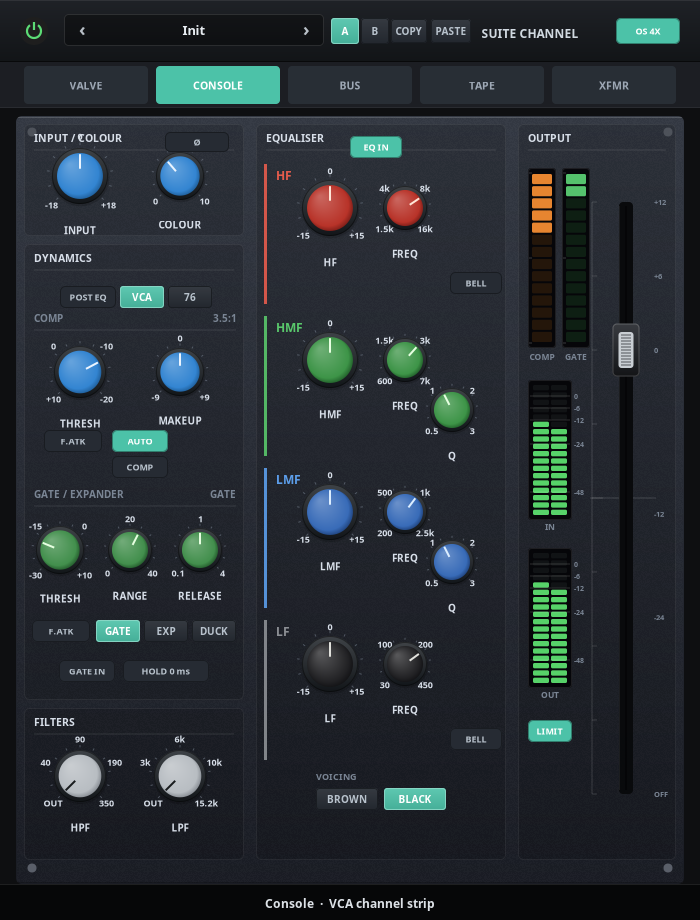
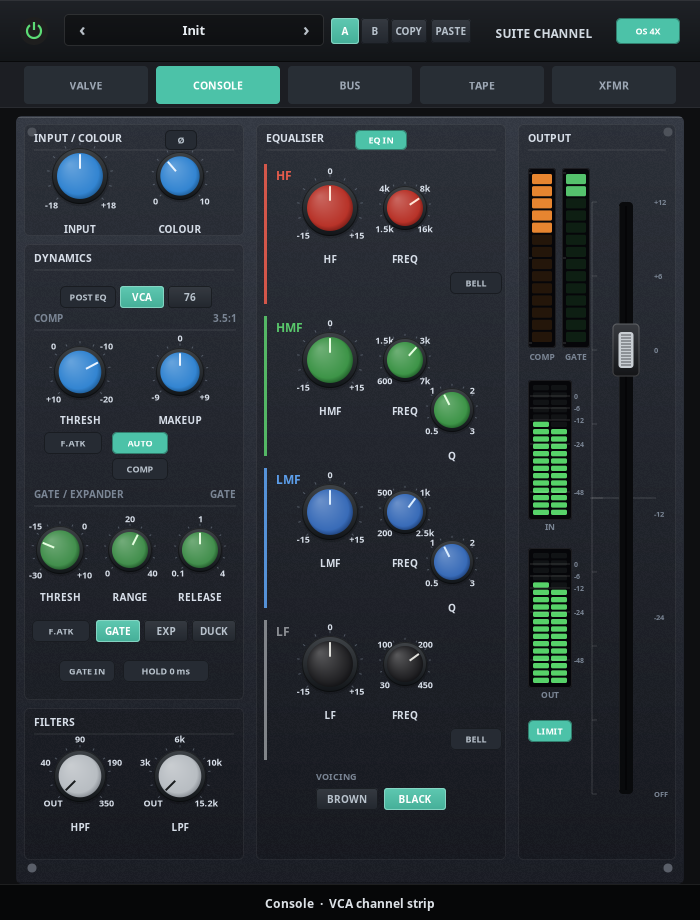
0.2.3: live gate GR meter, header and label alignment

diff --git a/src/ui/panel.cpp b/src/ui/panel.cpp
@@ -111,7 +111,7 @@ KnobPalette paletteFor(uint32_t param, bool blackEq) {
   }
 }
 
-const char* const kScaleInput[] = {"-18", "0", "+18"};
+const char* const kScaleInput[] = {"-18", "", "+18"};
 const char* const kScaleAmount[] = {"0", "", "10"};
 const char* const kScaleHPF[] = {"OUT", "40", "90", "190", "350"};
 const char* const kScaleLPF[] = {"OUT", "3k", "6k", "10k", "15.2k"};
@@ -314,6 +314,12 @@ void Panel::layout(const Shared& shared, const PanelState& state) {
     widgets_.push_back(b);
   };
 
+  auto alignLabels = [&](size_t first, double y) {
+    for (size_t i = first; i < widgets_.size(); ++i) {
+      widgets_[i].labelY = y;
+    }
+  };
+
   auto button = [&](uint32_t param, double x, double y, double w, double h,
                     double value, const char* label) {
     Widget b;
@@ -408,9 +414,11 @@ void Panel::layout(const Shared& shared, const PanelState& state) {
   }
 
   // Input / colour.
+  const size_t inputRow = widgets_.size();
   knob(P_INPUT, 80, 176, 28, "INPUT", sc(kScaleInput), true);
   knob(P_COLOR_AMOUNT, 180, 176, 24, "COLOUR", sc(kScaleAmount), true);
-  pill(P_POLARITY, 165, 132, 64, 20, "\u00d8");
+  alignLabels(inputRow, 233.0);
+  pill(P_POLARITY, 165, 130, 32, 20, "\u00d8");
 
   // Dynamics.
   pill(P_DYN_POST, 60, 286, 56, 22, "POST EQ");
@@ -420,23 +428,27 @@ void Panel::layout(const Shared& shared, const PanelState& state) {
   button(P_COMP_TYPE, 168, 286, 44, 22, 1.0, "76");
   widgets_.back().onSilver = silverComp;
 
+  const size_t compKnobRow = widgets_.size();
   knob(P_COMP_THRESHOLD, 80, 372, 26, "THRESH",
        sc(kScaleCompThresh), true);
   widgets_.back().onSilver = silverComp;
   knob(P_COMP_MAKEUP, 180, 372, 24, "MAKEUP", sc(kScaleMakeup), true);
   widgets_.back().onSilver = silverComp;
-  pill(P_COMP_FAST, 44, 430, 58, 22, "F.ATK");
+  alignLabels(compKnobRow, 424.0);
+  pill(P_COMP_FAST, 44, 432, 58, 22, "F.ATK");
   widgets_.back().onSilver = silverComp;
-  pill(P_COMP_AUTO, 112, 430, 56, 22, "AUTO");
+  pill(P_COMP_AUTO, 112, 432, 56, 22, "AUTO");
   widgets_.back().onSilver = silverComp;
-  pill(P_COMP_IN, 112, 456, 56, 22, "COMP");
+  pill(P_COMP_IN, 112, 458, 56, 22, "COMP");
   widgets_.back().onSilver = silverComp;
 
   // Gate.
+  const size_t gateKnobRow = widgets_.size();
   knob(P_GATE_THRESHOLD, 60, 550, 24, "THRESH",
        sc(kScaleGateThresh), true);
   knob(P_GATE_RANGE, 130, 550, 22, "RANGE", sc(kScaleRange), true);
   knob(P_GATE_RELEASE, 200, 550, 22, "RELEASE", sc(kScaleRelease), true);
+  alignLabels(gateKnobRow, 601.0);
   pill(P_GATE_FAST, 32, 620, 58, 22, "F.ATK");
   button(P_GATE_MODE, 96, 620, 44, 22, 1.0, "GATE");
   button(P_GATE_MODE, 144, 620, 44, 22, 0.0, "EXP");
@@ -455,34 +467,44 @@ void Panel::layout(const Shared& shared, const PanelState& state) {
   }
 
   // Filters.
+  const size_t filterRow = widgets_.size();
   knob(P_HPF, 80, 776, 26, "HPF", sc(kScaleHPF), true);
   knob(P_LPF, 180, 776, 26, "LPF", sc(kScaleLPF), true);
+  alignLabels(filterRow, 831.0);
 
   // EQ.
-  pill(P_EQ_IN, 350, 136, 52, 22, "EQ IN");
+  pill(P_EQ_IN, 355, 130, 52, 20, "EQ IN");
   button(P_EQ_TYPE, 316, 788, 62, 22, 0.0, "BROWN");
   button(P_EQ_TYPE, 384, 788, 62, 22, 1.0, "BLACK");
 
   // HF.
+  const size_t hfRow = widgets_.size();
   knob(P_HF_GAIN, 330, 208, 28, "HF", sc(kScaleGain), true, 1.35);
   knob(P_HF_FREQ, 405, 208, 22, "FREQ", sc(kScaleFreqHF), true, 1.30);
+  alignLabels(hfRow, 263.0);
   pill(P_HF_BELL, 450, 272, 52, 22, "BELL");
 
   // HMF.
+  const size_t hmfRow = widgets_.size();
   knob(P_HM_GAIN, 330, 360, 28, "HMF", sc(kScaleGain), true, 1.35);
   knob(P_HM_FREQ, 405, 360, 22, "FREQ", sc(kScaleFreqHM), true, 1.30);
+  alignLabels(hmfRow, 415.0);
   knob(P_HM_Q, 452, 410, 22, "Q", sc(kScaleQ), true, 1.30);
 
   // LMF.
+  const size_t lmfRow = widgets_.size();
   knob(P_LM_GAIN, 330, 512, 28, "LMF", sc(kScaleGain), true, 1.35);
   knob(P_LM_FREQ, 405, 512, 22, "FREQ", sc(kScaleFreqLM), true, 1.30);
+  alignLabels(lmfRow, 567.0);
   knob(P_LM_Q, 452, 562, 22, "Q", sc(kScaleQ), true, 1.30);
 
   // LF.
+  const size_t lfRow = widgets_.size();
   knob(P_LF_GAIN, 330, 664, 28, "LF", sc(kScaleGain), true, 1.35);
   widgets_.back().blackEq = blackEq;
   knob(P_LF_FREQ, 405, 664, 22, "FREQ", sc(kScaleFreqLF), true, 1.30);
   widgets_.back().blackEq = blackEq;
+  alignLabels(lfRow, 719.0);
   pill(P_LF_BELL, 450, 728, 52, 22, "BELL");
   widgets_.back().blackEq = blackEq;
 
@@ -563,7 +585,7 @@ void Panel::drawHeader(cairo_t* cr, const Shared& shared,
   cairo_line_to(cr, kPanelWidth, 107.5);
   cairo_stroke(cr);
 
-  text(cr, "SUITE CHANNEL", 530, 38, 12.0, 1, 0.82, 0.85, 0.88);
+  text(cr, "SUITE CHANNEL", 544, 38, 12.0, 1, 0.82, 0.85, 0.88);
   drawPresetBar(cr, shared, state);
 }
 
@@ -1282,7 +1304,10 @@ void Panel::drawKnob(cairo_t* cr, const Widget& w, double value) const {
                 cy + std::sin(a) * r * 0.78);
   cairo_stroke(cr);
 
-  const double labelY = w.labelBelow ? cy + r * 1.44 + 18 : cy - r * 1.44 - 16;
+  const double labelY =
+      w.labelY > 0.0
+          ? w.labelY
+          : (w.labelBelow ? cy + r * 1.44 + 18 : cy - r * 1.44 - 16);
   text(cr, w.label, cx, labelY, 10.0, 1, legend.r, legend.g,
        legend.b);
 }

diff --git a/src/suite_channel_lv2.cpp b/src/suite_channel_lv2.cpp
@@ -23,6 +23,7 @@ enum Port : uint32_t {
   PORT_AUDIO_OUT_R = 3,
   PORT_FIRST_PARAM = 4,
   PORT_GR_METER = PORT_FIRST_PARAM + suite::P_COUNT,
+  PORT_GATE_GR_METER,
   PORT_OUT_PEAK_L,
   PORT_OUT_PEAK_R,
   PORT_IN_PEAK_L,
@@ -46,6 +47,7 @@ struct Plugin {
   float* audioOutL = nullptr;
   float* audioOutR = nullptr;
   float* gr = nullptr;
+  float* gateGr = nullptr;
   float* outPeakL = nullptr;
   float* outPeakR = nullptr;
   float* inPeakL = nullptr;
@@ -87,6 +89,7 @@ void connectPort(LV2_Handle handle, uint32_t port, void* data) {
     case PORT_AUDIO_OUT_L: p->audioOutL = fp; break;
     case PORT_AUDIO_OUT_R: p->audioOutR = fp; break;
     case PORT_GR_METER: p->gr = fp; break;
+    case PORT_GATE_GR_METER: p->gateGr = fp; break;
     case PORT_OUT_PEAK_L: p->outPeakL = fp; break;
     case PORT_OUT_PEAK_R: p->outPeakR = fp; break;
     case PORT_IN_PEAK_L: p->inPeakL = fp; break;
@@ -143,6 +146,9 @@ void run(LV2_Handle handle, uint32_t frames) {
 
   if (p->gr) {
     *p->gr = p->meters.grDb;
+  }
+  if (p->gateGr) {
+    *p->gateGr = p->meters.gateGrDb;
   }
   if (p->outPeakL) {
     *p->outPeakL = p->meters.outPeakLDb;

diff --git a/tools/gen_ttl.cpp b/tools/gen_ttl.cpp
@@ -205,6 +205,7 @@ std::string buildPluginTtl() {
   };
   const MeterPort meters[] = {
       {"gr_meter", "Gain Reduction", 0.0, 40.0, "Meter"},
+      {"gate_gr_meter", "Gate Gain Reduction", 0.0, 40.0, "Meter"},
       {"out_peak_l", "Output Peak Left", -120.0, 24.0, "Meter"},
       {"out_peak_r", "Output Peak Right", -120.0, 24.0, "Meter"},
       {"in_peak_l", "Input Peak Left", -120.0, 24.0, "Meter"},
@@ -289,8 +290,8 @@ std::string buildManifestTtl() {
         << suite::kParamSpecs[id].symbol
         << "\" ; ui:protocol ui:floatProtocol ]";
   }
-  const char* const meters[] = {"gr_meter", "out_peak_l", "out_peak_r",
-                                "in_peak_l", "in_peak_r"};
+  const char* const meters[] = {"gr_meter", "gate_gr_meter", "out_peak_l",
+                                "out_peak_r", "in_peak_l", "in_peak_r"};
   for (const char* meter : meters) {
     out << " ,\n        [ ui:plugin <" << kUri << "> ; ui:symbol \""
         << meter << "\" ; ui:protocol ui:floatProtocol ]";

diff --git a/src/ui/lv2_ui.cpp b/src/ui/lv2_ui.cpp
@@ -360,10 +360,11 @@ void uiPortEvent(LV2UI_Handle handle, uint32_t port, uint32_t size,
   constexpr uint32_t kMeterBase = kFirstParam + suite::P_COUNT;
   switch (port) {
     case kMeterBase: ui->shared.grDb.store(v); break;
-    case kMeterBase + 1: ui->shared.outPeakLDb.store(v); break;
-    case kMeterBase + 2: ui->shared.outPeakRDb.store(v); break;
-    case kMeterBase + 3: ui->shared.inPeakLDb.store(v); break;
-    case kMeterBase + 4: ui->shared.inPeakRDb.store(v); break;
+    case kMeterBase + 1: ui->shared.gateGrDb.store(v); break;
+    case kMeterBase + 2: ui->shared.outPeakLDb.store(v); break;
+    case kMeterBase + 3: ui->shared.outPeakRDb.store(v); break;
+    case kMeterBase + 4: ui->shared.inPeakLDb.store(v); break;
+    case kMeterBase + 5: ui->shared.inPeakRDb.store(v); break;
     default: break;
   }
 }

diff --git a/src/clap/suite_channel_clap.cpp b/src/clap/suite_channel_clap.cpp
@@ -801,6 +801,7 @@ clap_process_status pluginProcess(const clap_plugin_t* p, const clap_process_t* 
 
   s->grForHost.store(s->meters.grDb, std::memory_order_relaxed);
   s->shared.grDb.store(s->meters.grDb, std::memory_order_relaxed);
+  s->shared.gateGrDb.store(s->meters.gateGrDb, std::memory_order_relaxed);
   s->shared.inPeakDb.store(s->meters.inPeakDb, std::memory_order_relaxed);
   s->shared.outPeakDb.store(s->meters.outPeakDb, std::memory_order_relaxed);
   s->shared.outVuDb.store(s->meters.outVuDb, std::memory_order_relaxed);

diff --git a/src/ui/panel.hpp b/src/ui/panel.hpp
@@ -114,6 +114,7 @@ private:
     double r = 0.0;
     int steps = 0;
     double scaleRadius = 1.44;
+    double labelY = 0.0;  // 0 = derive from the knob radius
     const char* label = "";
     std::vector<const char*> scale;
     bool labelBelow = false;

diff --git a/src/version.hpp b/src/version.hpp
@@ -7,6 +7,6 @@ namespace suite {
 constexpr int kVersionMajor = 0;
 constexpr int kVersionMinor = 1;
 constexpr int kVersionMicro = 6;
-constexpr const char* kVersion = "0.2.2";
+constexpr const char* kVersion = "0.2.3";
 
 } // namespace suite

diff --git a/README.md b/README.md
@@ -1,6 +1,6 @@
 # Suite Channel
 
-**Version 0.2.2** · GPL-3.0-or-later · CLAP + LV2 · Linux
+**Version 0.2.3** · GPL-3.0-or-later · CLAP + LV2 · Linux
 
 Suite Channel is a vertical SSL-style channel strip in the Comp Suite visual
 language. It combines:
@@ -166,9 +166,11 @@ session. Treat the URI as permanent.
 
 ## Current status
 
-0.2.2 fixes the gate locking closed when a host supplied a silent sidechain
-buffer, flashes COPY/PASTE green on success, compacts those buttons and sizes
-the oversampling control to its text. 0.2.1 added **PASTE** and fixed the
+0.2.3 puts the gate GR meter on the CLAP/LV2 meters, aligns the phase and EQ IN
+buttons with their section headers, centres the wordmark, and aligns every
+knob-name baseline within its row. 0.2.2 fixed the gate locking closed when a
+host supplied a silent sidechain buffer, flashes COPY/PASTE green on success,
+compacts those buttons and sizes the oversampling control to its text. 0.2.1 added **PASTE** and fixed the
 typed-value field, centres the gate button rows and makes every parameter
 report the same option names in the editor and the host.
 0.2.0 added gate **Hold** and **Ducker** modes, an output **LIMIT** switch,

diff --git a/CHANGELOG.md b/CHANGELOG.md
@@ -1,5 +1,19 @@
 # Changelog
 
+## 0.2.3 — 2026-11-16
+
+- Gate GR meter now works: the CLAP editor publishes gate gain reduction, and
+  LV2 has a new **Gate Gain Reduction** meter port.
+- Phase button moved into the Input/Colour header row, made compact and
+  aligned with the title.
+- EQ IN sits in the Equaliser header row, aligned with the title.
+- Removed the Input knob's top "0" scale label, which collided with the section
+  title and looked like a stray phase symbol.
+- Knob name labels share one baseline per row (input/colour, compressor, gate,
+  HF/HMF/LMF/LF gain+freq), so labels no longer sit at different heights.
+- Wordmark centred between PASTE and OS 4X.
+- Compressor buttons nudged down for a little more space under their labels.
+
 ## 0.2.2 — 2026-11-16
 
 - Fixed the gate staying shut with Range at maximum: a host that provides a
